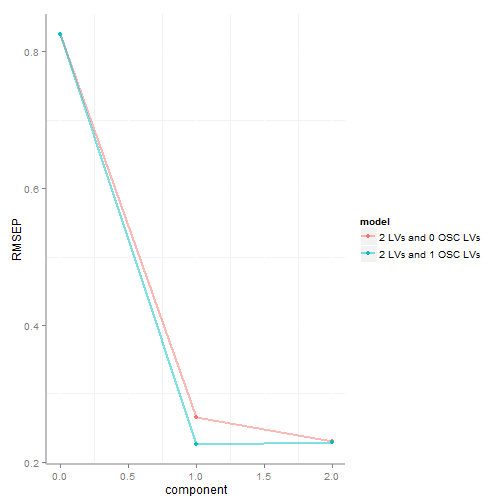
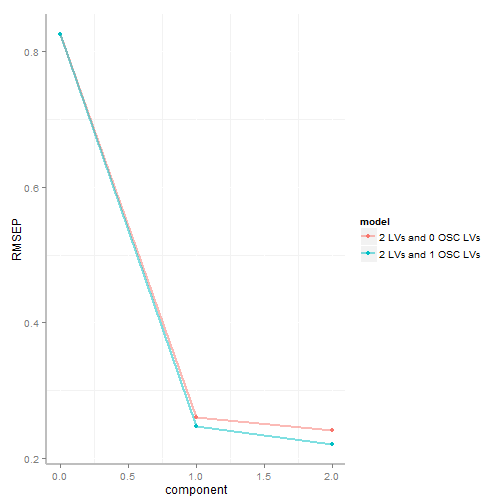
updating Iris O-PLS-DA

diff --git a/Demos/Predictive Modeling/Iris O-PLS-DA/O-PLS modeling of Iris data.html b/Demos/Predictive Modeling/Iris O-PLS-DA/O-PLS modeling of Iris data.html
@@ -244,32 +244,13 @@ scaled.data &lt;- tmp.data
 
 <pre><code class="r">mods &lt;- make.OSC.PLS.model(tmp.y, pls.data = scaled.data, comp = 2, OSC.comp = 1, 
     validation = &quot;LOO&quot;, method = &quot;oscorespls&quot;, cv.scale = TRUE, progress = FALSE)
-</code></pre>
-
-<pre><code>## Loading required package: pls
-</code></pre>
-
-<pre><code>## Attaching package: &#39;pls&#39;
-</code></pre>
-
-<pre><code>## The following object(s) are masked from &#39;package:stats&#39;:
-## 
-## loadings
-</code></pre>
-
-<pre><code class="r"># extract model
+# extract model
 final &lt;- get.OSC.model(obj = mods, OSC.comp = 1)
 # view out-of-bag error for cross-validation splits
 plot.OSC.results(mods, plot = &quot;RMSEP&quot;, groups = tmp.group)
 </code></pre>
 
-<pre><code>## Loading required package: ggplot2
-</code></pre>
-
-<pre><code>## Warning: package &#39;ggplot2&#39; was built under R version 2.15.3
-</code></pre>
-
[2 lines of base64/hex data omitted]
 
 <p>Ideally we want to select the simplest models with lowest root mean squared error of prediction (RMSEP), which in this case is calculated based on leave-one-one cross-validation. </p>
 
@@ -280,14 +261,14 @@ plot.OSC.results(mods, plot = &quot;RMSEP&quot;, groups = tmp.group)
 <pre><code class="r">plot.OSC.results(mods, plot = &quot;scores&quot;, groups = tmp.group)
 </code></pre>
 
[2 lines of base64/hex data omitted]
 
 <p>Non-overlapping scores for each species could signify a well fit model, but we need to carry out some further validations to be sure.</p>
 
 <pre><code class="r">plot.PLS.results(obj = final, plot = &quot;scores&quot;, groups = tmp.group)
 </code></pre>
 
[2 lines of base64/hex data omitted]
 
 <p>Ideally the within species variance should be maximally orthogonal to the between species variance (our goal to maximize)in this case we see this represented by the vertical spread of the three species scores.</p>
 
@@ -298,15 +279,15 @@ plot.OSC.results(mods, plot = &quot;RMSEP&quot;, groups = tmp.group)
 <p>Next we can compare our model fit to random chance. We can do this using permutation testing by generating models for a randomly permuted species label (Y). We will generate 50 permuted models and compare their performance statitcs to our model. </p>
 
 <pre><code class="r">permuted.stats &lt;- permute.OSC.PLS(data = scaled.data, y = as.matrix(tmp.y), 
-    n = 10, ncomp = 2, osc.comp = 1, progress = FALSE)
+    n = 50, ncomp = 2, osc.comp = 1, progress = FALSE)
 # look how our model compares to random chance
 OSC.validate.model(model = mods, perm = permuted.stats)
 </code></pre>
 
-<pre><code>##                              Q2             Xvar           RMSEP
-## model                    0.9209           0.2467          0.2296
-## permuted model -0.04217 ± 0.031 0.05843 ± 0.0783 0.8333 ± 0.0124
-## p-value               5.956e-15        3.326e-05       1.041e-16
+<pre><code>##                              Q2            Xvar           RMSEP
+## model                    0.9266          0.1851          0.2211
+## permuted model -0.0492 ± 0.0318 0.07993 ± 0.169 0.8361 ± 0.0127
+## p-value               8.746e-75       6.025e-05       1.656e-84
 </code></pre>
 
 <ul>
@@ -324,7 +305,7 @@ performance parameters (single values) to their respective permuted distribution
 <p>Next we can estimate the OOB error within the training set by conducting model training and testing. This is done by randomly splitting the trainning data into 1/3 test set and 2/3 training set. Models are fit using training data and used to predict the species label for the test data.</p>
 
 <pre><code class="r"># strata controls if the species are sampled from equally
-train.test.index = test.train.split(nrow(scaled.data), n = 10, strata = as.factor(tmp.y))
+train.test.index = test.train.split(nrow(scaled.data), n = 50, strata = as.factor(tmp.y))
 train.stats &lt;- OSC.PLS.train.test(pls.data = scaled.data, pls.y = tmp.y, train.test.index, 
     comp = 2, OSC.comp = 1, cv.scale = TRUE, progress = FALSE)
 </code></pre>
@@ -335,9 +316,9 @@ train.stats &lt;- OSC.PLS.train.test(pls.data = scaled.data, pls.y = tmp.y, trai
 </code></pre>
 
 <pre><code>##                              Q2           RMSEP
-## model           0.8831 ± 0.0543 0.2225 ± 0.0181
-## permuted model -0.04217 ± 0.031 0.8333 ± 0.0124
-## p-value               4.577e-17       7.215e-23
+## model           0.9043 ± 0.0161 0.2228 ± 0.0181
+## permuted model -0.0492 ± 0.0318 0.8361 ± 0.0127
+## p-value               1.257e-99      6.707e-118
 </code></pre>
 
 <p>This suggests that we have a strong model (far better than random chance) which capable of correctly predicting the species of the flower.

diff --git a/Demos/Predictive Modeling/Iris O-PLS-DA/O-PLS modeling of Iris data.md b/Demos/Predictive Modeling/Iris O-PLS-DA/O-PLS modeling of Iris data.md
@@ -67,35 +67,10 @@ Compare a 2 latent variable (LV) PLS-DA and 2 LV with one orthogonal LV (OLV) O-
 ```r
 mods <- make.OSC.PLS.model(tmp.y, pls.data = scaled.data, comp = 2, OSC.comp = 1, 
     validation = "LOO", method = "oscorespls", cv.scale = TRUE, progress = FALSE)
-```
-
-```
-## Loading required package: pls
-```
-
-```
-## Attaching package: 'pls'
-```
-
-```
-## The following object(s) are masked from 'package:stats':
-## 
-## loadings
-```
-
-```r
 # extract model
 final <- get.OSC.model(obj = mods, OSC.comp = 1)
 # view out-of-bag error for cross-validation splits
 plot.OSC.results(mods, plot = "RMSEP", groups = tmp.group)
-```
-
-```
-## Loading required package: ggplot2
-```
-
-```
-## Warning: package 'ggplot2' was built under R version 2.15.3
 ```
 
 ![plot of chunk unnamed-chunk-4](figure/unnamed-chunk-4.png) 
@@ -129,16 +104,16 @@ Next we can compare our model fit to random chance. We can do this using permuta
 
 ```r
 permuted.stats <- permute.OSC.PLS(data = scaled.data, y = as.matrix(tmp.y), 
-    n = 10, ncomp = 2, osc.comp = 1, progress = FALSE)
+    n = 50, ncomp = 2, osc.comp = 1, progress = FALSE)
 # look how our model compares to random chance
 OSC.validate.model(model = mods, perm = permuted.stats)
 ```
 
 ```
-##                              Q2             Xvar           RMSEP
-## model                    0.9209           0.2467          0.2296
-## permuted model -0.04217 ± 0.031 0.05843 ± 0.0783 0.8333 ± 0.0124
-## p-value               5.956e-15        3.326e-05       1.041e-16
+##                              Q2            Xvar           RMSEP
+## model                    0.9266          0.1851          0.2211
+## permuted model -0.0492 ± 0.0318 0.07993 ± 0.169 0.8361 ± 0.0127
+## p-value               8.746e-75       6.025e-05       1.656e-84
 ```
 
 
@@ -155,7 +130,7 @@ Next we can estimate the OOB error within the training set by conducting model t
 
 ```r
 # strata controls if the species are sampled from equally
-train.test.index = test.train.split(nrow(scaled.data), n = 10, strata = as.factor(tmp.y))
+train.test.index = test.train.split(nrow(scaled.data), n = 50, strata = as.factor(tmp.y))
 train.stats <- OSC.PLS.train.test(pls.data = scaled.data, pls.y = tmp.y, train.test.index, 
     comp = 2, OSC.comp = 1, cv.scale = TRUE, progress = FALSE)
 ```
@@ -170,9 +145,9 @@ OSC.validate.model(model = mods, perm = permuted.stats, train = train.stats)
 
 ```
 ##                              Q2           RMSEP
-## model           0.8831 ± 0.0543 0.2225 ± 0.0181
-## permuted model -0.04217 ± 0.031 0.8333 ± 0.0124
-## p-value               4.577e-17       7.215e-23
+## model           0.9043 ± 0.0161 0.2228 ± 0.0181
+## permuted model -0.0492 ± 0.0318 0.8361 ± 0.0127
+## p-value               1.257e-99      6.707e-118
 ```
 
 
